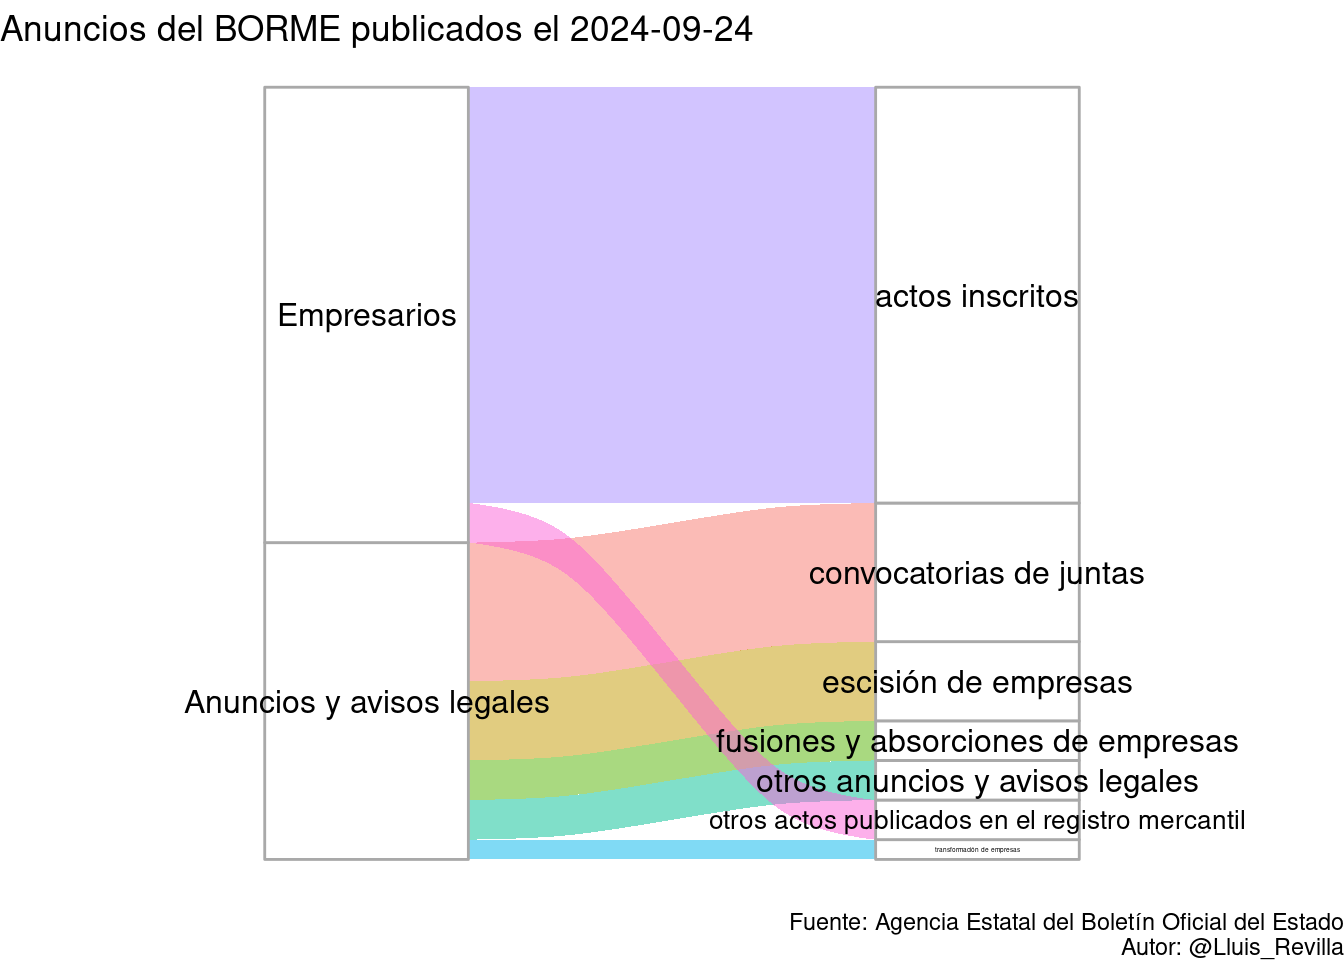
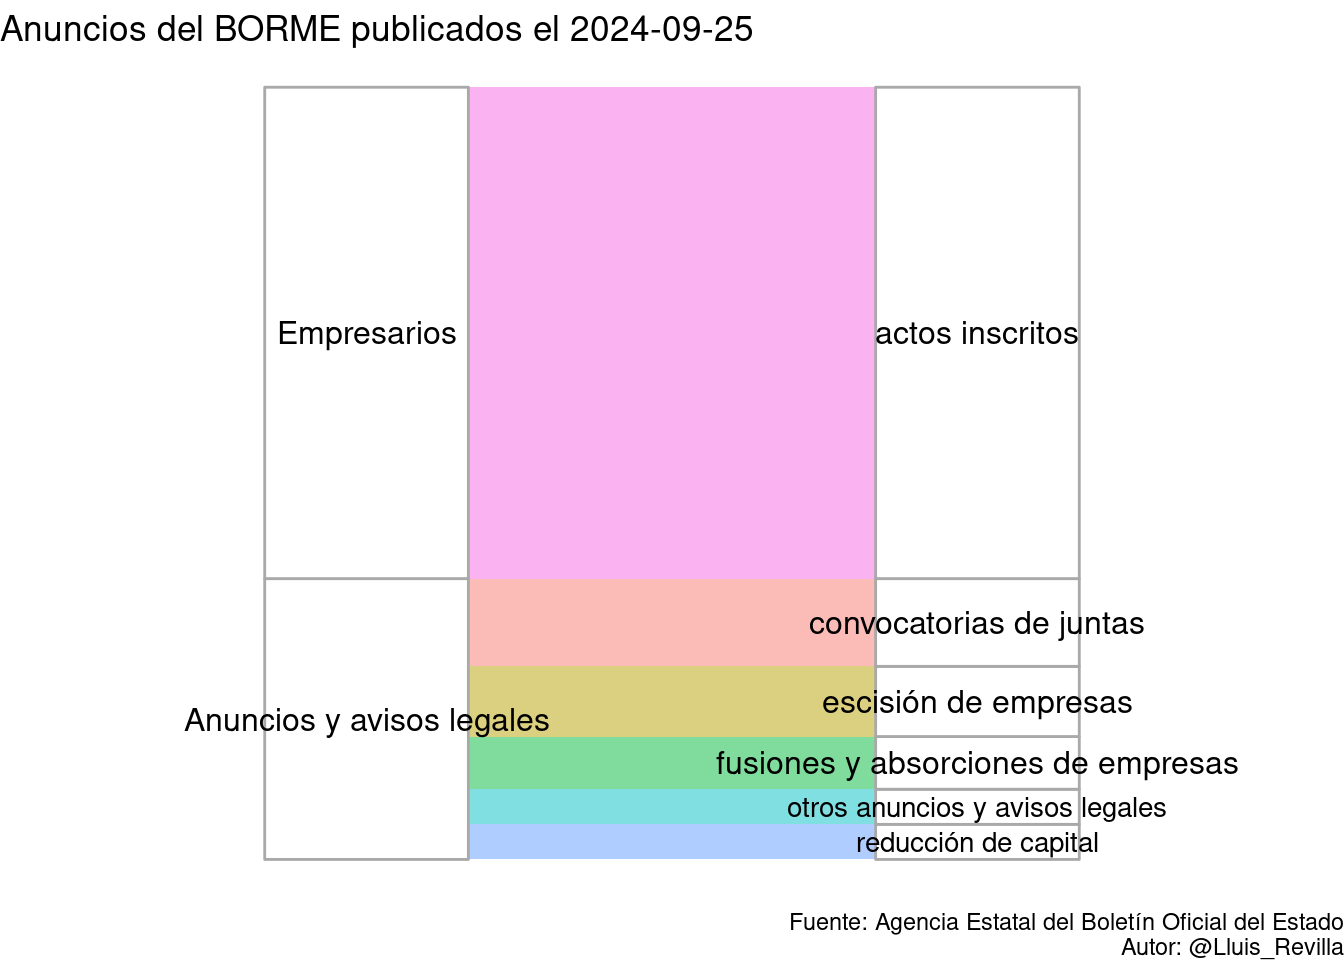
Update BORME

Changed region(s): [[0.125, 0.0938, 0.9375, 0.9062], [0.5312, 0.0, 0.5625, 0.0625]]

diff --git a/docs/last_BORME.html b/docs/last_BORME.html
@@ -379,14 +379,14 @@ $(document).ready(function () {
 
 <div id="resumen-gráfico" class="section level1">
 <h1>Resumen gráfico</h1>
-<p>Esta página web contiene el último sumario del BORME publicado el 2024-09-24 con 39 publicaciones.</p>
+<p>Esta página web contiene el último sumario del BORME publicado el 2024-09-25 con 44 publicaciones.</p>
 <p><img src="last_BORME_files/figure-html/graphics-1.png" width="672" /></p>
 </div>
 <div id="tabla-de-publicaciones" class="section level1">
 <h1>Tabla de publicaciones</h1>
 <p>Aquí está la tabla completa con enlaces a las publicaciones:</p>
-<div class="datatables html-widget html-fill-item-overflow-hidden html-fill-item" id="htmlwidget-83b07905bffd6f8e55e2" style="width:100%;height:auto;"></div>
-<script type="application/json" data-for="htmlwidget-83b07905bffd6f8e55e2">{"x":{"filter":"top","vertical":false,"filterHTML":"<tr>\n  <td><\/td>\n  <td data-type=\"character\" style=\"vertical-align: top;\">\n    <div class=\"form-group has-feedback\" style=\"margin-bottom: auto;\">\n      <input type=\"search\" placeholder=\"All\" class=\"form-control\" style=\"width: 100%;\"/>\n      <span class=\"glyphicon glyphicon-remove-circle form-control-feedback\"><\/span>\n    <\/div>\n  <\/td>\n  <td data-type=\"character\" style=\"vertical-align: top;\">\n    <div class=\"form-group has-feedback\" style=\"margin-bottom: auto;\">\n      <input type=\"search\" placeholder=\"All\" class=\"form-control\" style=\"width: 100%;\"/>\n      <span class=\"glyphicon glyphicon-remove-circle form-control-feedback\"><\/span>\n    <\/div>\n  <\/td>\n  <td data-type=\"character\" style=\"vertical-align: top;\">\n    <div class=\"form-group has-feedback\" style=\"margin-bottom: auto;\">\n      <input type=\"search\" placeholder=\"All\" class=\"form-control\" style=\"width: 100%;\" disabled=\"\"/>\n      <span class=\"glyphicon glyphicon-remove-circle form-control-feedback\"><\/span>\n    <\/div>\n  <\/td>\n  <td data-type=\"character\" style=\"vertical-align: top;\">\n    <div class=\"form-group has-feedback\" style=\"margin-bottom: auto;\">\n      <input type=\"search\" placeholder=\"All\" class=\"form-control\" style=\"width: 100%;\"/>\n      <span class=\"glyphicon glyphicon-remove-circle form-control-feedback\"><\/span>\n    <\/div>\n  <\/td>\n<\/tr>","data":[["1","2","3","4","5","6","7","8","9","10","11","12","13","14","15","16","17","18","19","20","21","22","23","24","25","26","27","28","29","30","31","32","33","34","35","36","37","38","39"],["SECCIÓN PRIMERA. Empresarios","SECCIÓN PRIMERA. Empresarios","SECCIÓN PRIMERA. Empresarios","SECCIÓN PRIMERA. Empresarios","SECCIÓN PRIMERA. Empresarios","SECCIÓN PRIMERA. Empresarios","SECCIÓN PRIMERA. Empresarios","SECCIÓN PRIMERA. Empresarios","SECCIÓN PRIMERA. Empresarios","SECCIÓN PRIMERA. Empresarios","SECCIÓN PRIMERA. Empresarios","SECCIÓN PRIMERA. Empresarios","SECCIÓN PRIMERA. Empresarios","SECCIÓN PRIMERA. Empresarios","SECCIÓN PRIMERA. Empresarios","SECCIÓN PRIMERA. Empresarios","SECCIÓN PRIMERA. Empresarios","SECCIÓN PRIMERA. Empresarios","SECCIÓN PRIMERA. Empresarios","SECCIÓN PRIMERA. Empresarios","SECCIÓN PRIMERA. Empresarios","SECCIÓN PRIMERA. Empresarios","SECCIÓN PRIMERA. Empresarios","SECCIÓN SEGUNDA. Anuncios y avisos legales","SECCIÓN SEGUNDA. Anuncios y avisos legales","SECCIÓN SEGUNDA. Anuncios y avisos legales","SECCIÓN SEGUNDA. Anuncios y avisos legales","SECCIÓN SEGUNDA. Anuncios y avisos legales","SECCIÓN SEGUNDA. Anuncios y avisos legales","SECCIÓN SEGUNDA. Anuncios y avisos legales","SECCIÓN SEGUNDA. Anuncios y avisos legales","SECCIÓN SEGUNDA. Anuncios y avisos legales","SECCIÓN SEGUNDA. Anuncios y avisos legales","SECCIÓN SEGUNDA. Anuncios y avisos legales","SECCIÓN SEGUNDA. Anuncios y avisos legales","SECCIÓN SEGUNDA. Anuncios y avisos legales","SECCIÓN SEGUNDA. Anuncios y avisos legales","SECCIÓN SEGUNDA. Anuncios y avisos legales","SECCIÓN SEGUNDA. Anuncios y avisos legales"],["Actos inscritos","Actos inscritos","Actos inscritos","Actos inscritos","Actos inscritos","Actos inscritos","Actos inscritos","Actos inscritos","Actos inscritos","Actos inscritos","Actos inscritos","Actos inscritos","Actos inscritos","Actos inscritos","Actos inscritos","Actos inscritos","Actos inscritos","Actos inscritos","Actos inscritos","Actos inscritos","Actos inscritos","Otros actos publicados en el Registro Mercantil","Otros actos publicados en el Registro Mercantil","CONVOCATORIAS DE JUNTAS","CONVOCATORIAS DE JUNTAS","CONVOCATORIAS DE JUNTAS","CONVOCATORIAS DE JUNTAS","CONVOCATORIAS DE JUNTAS","CONVOCATORIAS DE JUNTAS","CONVOCATORIAS DE JUNTAS","FUSIONES Y ABSORCIONES DE EMPRESAS","FUSIONES Y ABSORCIONES DE EMPRESAS","ESCISIÓN DE EMPRESAS","ESCISIÓN DE EMPRESAS","ESCISIÓN DE EMPRESAS","ESCISIÓN DE EMPRESAS","TRANSFORMACIÓN DE EMPRESAS","OTROS ANUNCIOS Y AVISOS LEGALES","OTROS ANUNCIOS Y AVISOS LEGALES"],[null,null,null,null,null,null,null,null,null,null,null,null,null,null,null,null,null,null,null,null,null,null,null,null,null,null,null,null,null,null,null,null,null,null,null,null,null,null,null],["BORME-A-2024-184-02","BORME-A-2024-184-03","BORME-A-2024-184-11","BORME-A-2024-184-12","BORME-A-2024-184-15","BORME-A-2024-184-17","BORME-A-2024-184-18","BORME-A-2024-184-22","BORME-A-2024-184-24","BORME-A-2024-184-25","BORME-A-2024-184-26","BORME-A-2024-184-28","BORME-A-2024-184-29","BORME-A-2024-184-33","BORME-A-2024-184-35","BORME-A-2024-184-36","BORME-A-2024-184-41","BORME-A-2024-184-46","BORME-A-2024-184-48","BORME-A-2024-184-50","BORME-A-2024-184-99","BORME-B-2024-184-28","BORME-B-2024-184-41","BORME-C-2024-5246","BORME-C-2024-5247","BORME-C-2024-5248","BORME-C-2024-5249","BORME-C-2024-5250","BORME-C-2024-5251","BORME-C-2024-5252","BORME-C-2024-5253","BORME-C-2024-5254","BORME-C-2024-5255","BORME-C-2024-5256","BORME-C-2024-5257","BORME-C-2024-5258","BORME-C-2024-5259","BORME-C-2024-5260","BORME-C-2024-5261"]],"container":"<table class=\"display\">\n  <thead>\n    <tr>\n      <th> <\/th>\n      <th>Sección<\/th>\n      <th>Emisor<\/th>\n      <th>Texto<\/th>\n      <th>Link<\/th>\n    <\/tr>\n  <\/thead>\n<\/table>","options":{"pageLength":10,"autoWidth":true,"columnDefs":[{"orderable":false,"targets":0},{"name":" ","targets":0},{"name":"Sección","targets":1},{"name":"Emisor","targets":2},{"name":"Texto","targets":3},{"name":"Link","targets":4}],"order":[],"orderClasses":false,"orderCellsTop":true}},"evals":[],"jsHooks":[]}</script>
+<div class="datatables html-widget html-fill-item-overflow-hidden html-fill-item" id="htmlwidget-c339b086a8ff54720ae4" style="width:100%;height:auto;"></div>
+<script type="application/json" data-for="htmlwidget-c339b086a8ff54720ae4">{"x":{"filter":"top","vertical":false,"filterHTML":"<tr>\n  <td><\/td>\n  <td data-type=\"character\" style=\"vertical-align: top;\">\n    <div class=\"form-group has-feedback\" style=\"margin-bottom: auto;\">\n      <input type=\"search\" placeholder=\"All\" class=\"form-control\" style=\"width: 100%;\"/>\n      <span class=\"glyphicon glyphicon-remove-circle form-control-feedback\"><\/span>\n    <\/div>\n  <\/td>\n  <td data-type=\"character\" style=\"vertical-align: top;\">\n    <div class=\"form-group has-feedback\" style=\"margin-bottom: auto;\">\n      <input type=\"search\" placeholder=\"All\" class=\"form-control\" style=\"width: 100%;\"/>\n      <span class=\"glyphicon glyphicon-remove-circle form-control-feedback\"><\/span>\n    <\/div>\n  <\/td>\n  <td data-type=\"character\" style=\"vertical-align: top;\">\n    <div class=\"form-group has-feedback\" style=\"margin-bottom: auto;\">\n      <input type=\"search\" placeholder=\"All\" class=\"form-control\" style=\"width: 100%;\" disabled=\"\"/>\n      <span class=\"glyphicon glyphicon-remove-circle form-control-feedback\"><\/span>\n    <\/div>\n  <\/td>\n  <td data-type=\"character\" style=\"vertical-align: top;\">\n    <div class=\"form-group has-feedback\" style=\"margin-bottom: auto;\">\n      <input type=\"search\" placeholder=\"All\" class=\"form-control\" style=\"width: 100%;\"/>\n      <span class=\"glyphicon glyphicon-remove-circle form-control-feedback\"><\/span>\n    <\/div>\n  <\/td>\n<\/tr>","data":[["1","2","3","4","5","6","7","8","9","10","11","12","13","14","15","16","17","18","19","20","21","22","23","24","25","26","27","28","29","30","31","32","33","34","35","36","37","38","39","40","41","42","43","44"],["SECCIÓN PRIMERA. Empresarios","SECCIÓN PRIMERA. Empresarios","SECCIÓN PRIMERA. Empresarios","SECCIÓN PRIMERA. Empresarios","SECCIÓN PRIMERA. Empresarios","SECCIÓN PRIMERA. Empresarios","SECCIÓN PRIMERA. Empresarios","SECCIÓN PRIMERA. Empresarios","SECCIÓN PRIMERA. Empresarios","SECCIÓN PRIMERA. Empresarios","SECCIÓN PRIMERA. Empresarios","SECCIÓN PRIMERA. Empresarios","SECCIÓN PRIMERA. Empresarios","SECCIÓN PRIMERA. Empresarios","SECCIÓN PRIMERA. Empresarios","SECCIÓN PRIMERA. Empresarios","SECCIÓN PRIMERA. Empresarios","SECCIÓN PRIMERA. Empresarios","SECCIÓN PRIMERA. Empresarios","SECCIÓN PRIMERA. Empresarios","SECCIÓN PRIMERA. Empresarios","SECCIÓN PRIMERA. Empresarios","SECCIÓN PRIMERA. Empresarios","SECCIÓN PRIMERA. Empresarios","SECCIÓN PRIMERA. Empresarios","SECCIÓN PRIMERA. Empresarios","SECCIÓN PRIMERA. Empresarios","SECCIÓN PRIMERA. Empresarios","SECCIÓN SEGUNDA. Anuncios y avisos legales","SECCIÓN SEGUNDA. Anuncios y avisos legales","SECCIÓN SEGUNDA. Anuncios y avisos legales","SECCIÓN SEGUNDA. Anuncios y avisos legales","SECCIÓN SEGUNDA. Anuncios y avisos legales","SECCIÓN SEGUNDA. Anuncios y avisos legales","SECCIÓN SEGUNDA. Anuncios y avisos legales","SECCIÓN SEGUNDA. Anuncios y avisos legales","SECCIÓN SEGUNDA. Anuncios y avisos legales","SECCIÓN SEGUNDA. Anuncios y avisos legales","SECCIÓN SEGUNDA. Anuncios y avisos legales","SECCIÓN SEGUNDA. Anuncios y avisos legales","SECCIÓN SEGUNDA. Anuncios y avisos legales","SECCIÓN SEGUNDA. Anuncios y avisos legales","SECCIÓN SEGUNDA. Anuncios y avisos legales","SECCIÓN SEGUNDA. Anuncios y avisos legales"],["Actos inscritos","Actos inscritos","Actos inscritos","Actos inscritos","Actos inscritos","Actos inscritos","Actos inscritos","Actos inscritos","Actos inscritos","Actos inscritos","Actos inscritos","Actos inscritos","Actos inscritos","Actos inscritos","Actos inscritos","Actos inscritos","Actos inscritos","Actos inscritos","Actos inscritos","Actos inscritos","Actos inscritos","Actos inscritos","Actos inscritos","Actos inscritos","Actos inscritos","Actos inscritos","Actos inscritos","Actos inscritos","CONVOCATORIAS DE JUNTAS","CONVOCATORIAS DE JUNTAS","CONVOCATORIAS DE JUNTAS","CONVOCATORIAS DE JUNTAS","CONVOCATORIAS DE JUNTAS","FUSIONES Y ABSORCIONES DE EMPRESAS","FUSIONES Y ABSORCIONES DE EMPRESAS","FUSIONES Y ABSORCIONES DE EMPRESAS","ESCISIÓN DE EMPRESAS","ESCISIÓN DE EMPRESAS","ESCISIÓN DE EMPRESAS","ESCISIÓN DE EMPRESAS","REDUCCIÓN DE CAPITAL","REDUCCIÓN DE CAPITAL","OTROS ANUNCIOS Y AVISOS LEGALES","OTROS ANUNCIOS Y AVISOS LEGALES"],[null,null,null,null,null,null,null,null,null,null,null,null,null,null,null,null,null,null,null,null,null,null,null,null,null,null,null,null,null,null,null,null,null,null,null,null,null,null,null,null,null,null,null,null],["BORME-A-2024-185-03","BORME-A-2024-185-04","BORME-A-2024-185-06","BORME-A-2024-185-07","BORME-A-2024-185-08","BORME-A-2024-185-09","BORME-A-2024-185-14","BORME-A-2024-185-15","BORME-A-2024-185-17","BORME-A-2024-185-21","BORME-A-2024-185-23","BORME-A-2024-185-24","BORME-A-2024-185-25","BORME-A-2024-185-26","BORME-A-2024-185-28","BORME-A-2024-185-29","BORME-A-2024-185-30","BORME-A-2024-185-32","BORME-A-2024-185-33","BORME-A-2024-185-35","BORME-A-2024-185-36","BORME-A-2024-185-38","BORME-A-2024-185-40","BORME-A-2024-185-43","BORME-A-2024-185-46","BORME-A-2024-185-50","BORME-A-2024-185-51","BORME-A-2024-185-99","BORME-C-2024-5262","BORME-C-2024-5263","BORME-C-2024-5264","BORME-C-2024-5265","BORME-C-2024-5266","BORME-C-2024-5267","BORME-C-2024-5268","BORME-C-2024-5269","BORME-C-2024-5270","BORME-C-2024-5271","BORME-C-2024-5272","BORME-C-2024-5273","BORME-C-2024-5274","BORME-C-2024-5275","BORME-C-2024-5276","BORME-C-2024-5277"]],"container":"<table class=\"display\">\n  <thead>\n    <tr>\n      <th> <\/th>\n      <th>Sección<\/th>\n      <th>Emisor<\/th>\n      <th>Texto<\/th>\n      <th>Link<\/th>\n    <\/tr>\n  <\/thead>\n<\/table>","options":{"pageLength":10,"autoWidth":true,"columnDefs":[{"orderable":false,"targets":0},{"name":" ","targets":0},{"name":"Sección","targets":1},{"name":"Emisor","targets":2},{"name":"Texto","targets":3},{"name":"Link","targets":4}],"order":[],"orderClasses":false,"orderCellsTop":true}},"evals":[],"jsHooks":[]}</script>
 </div>
 
 
